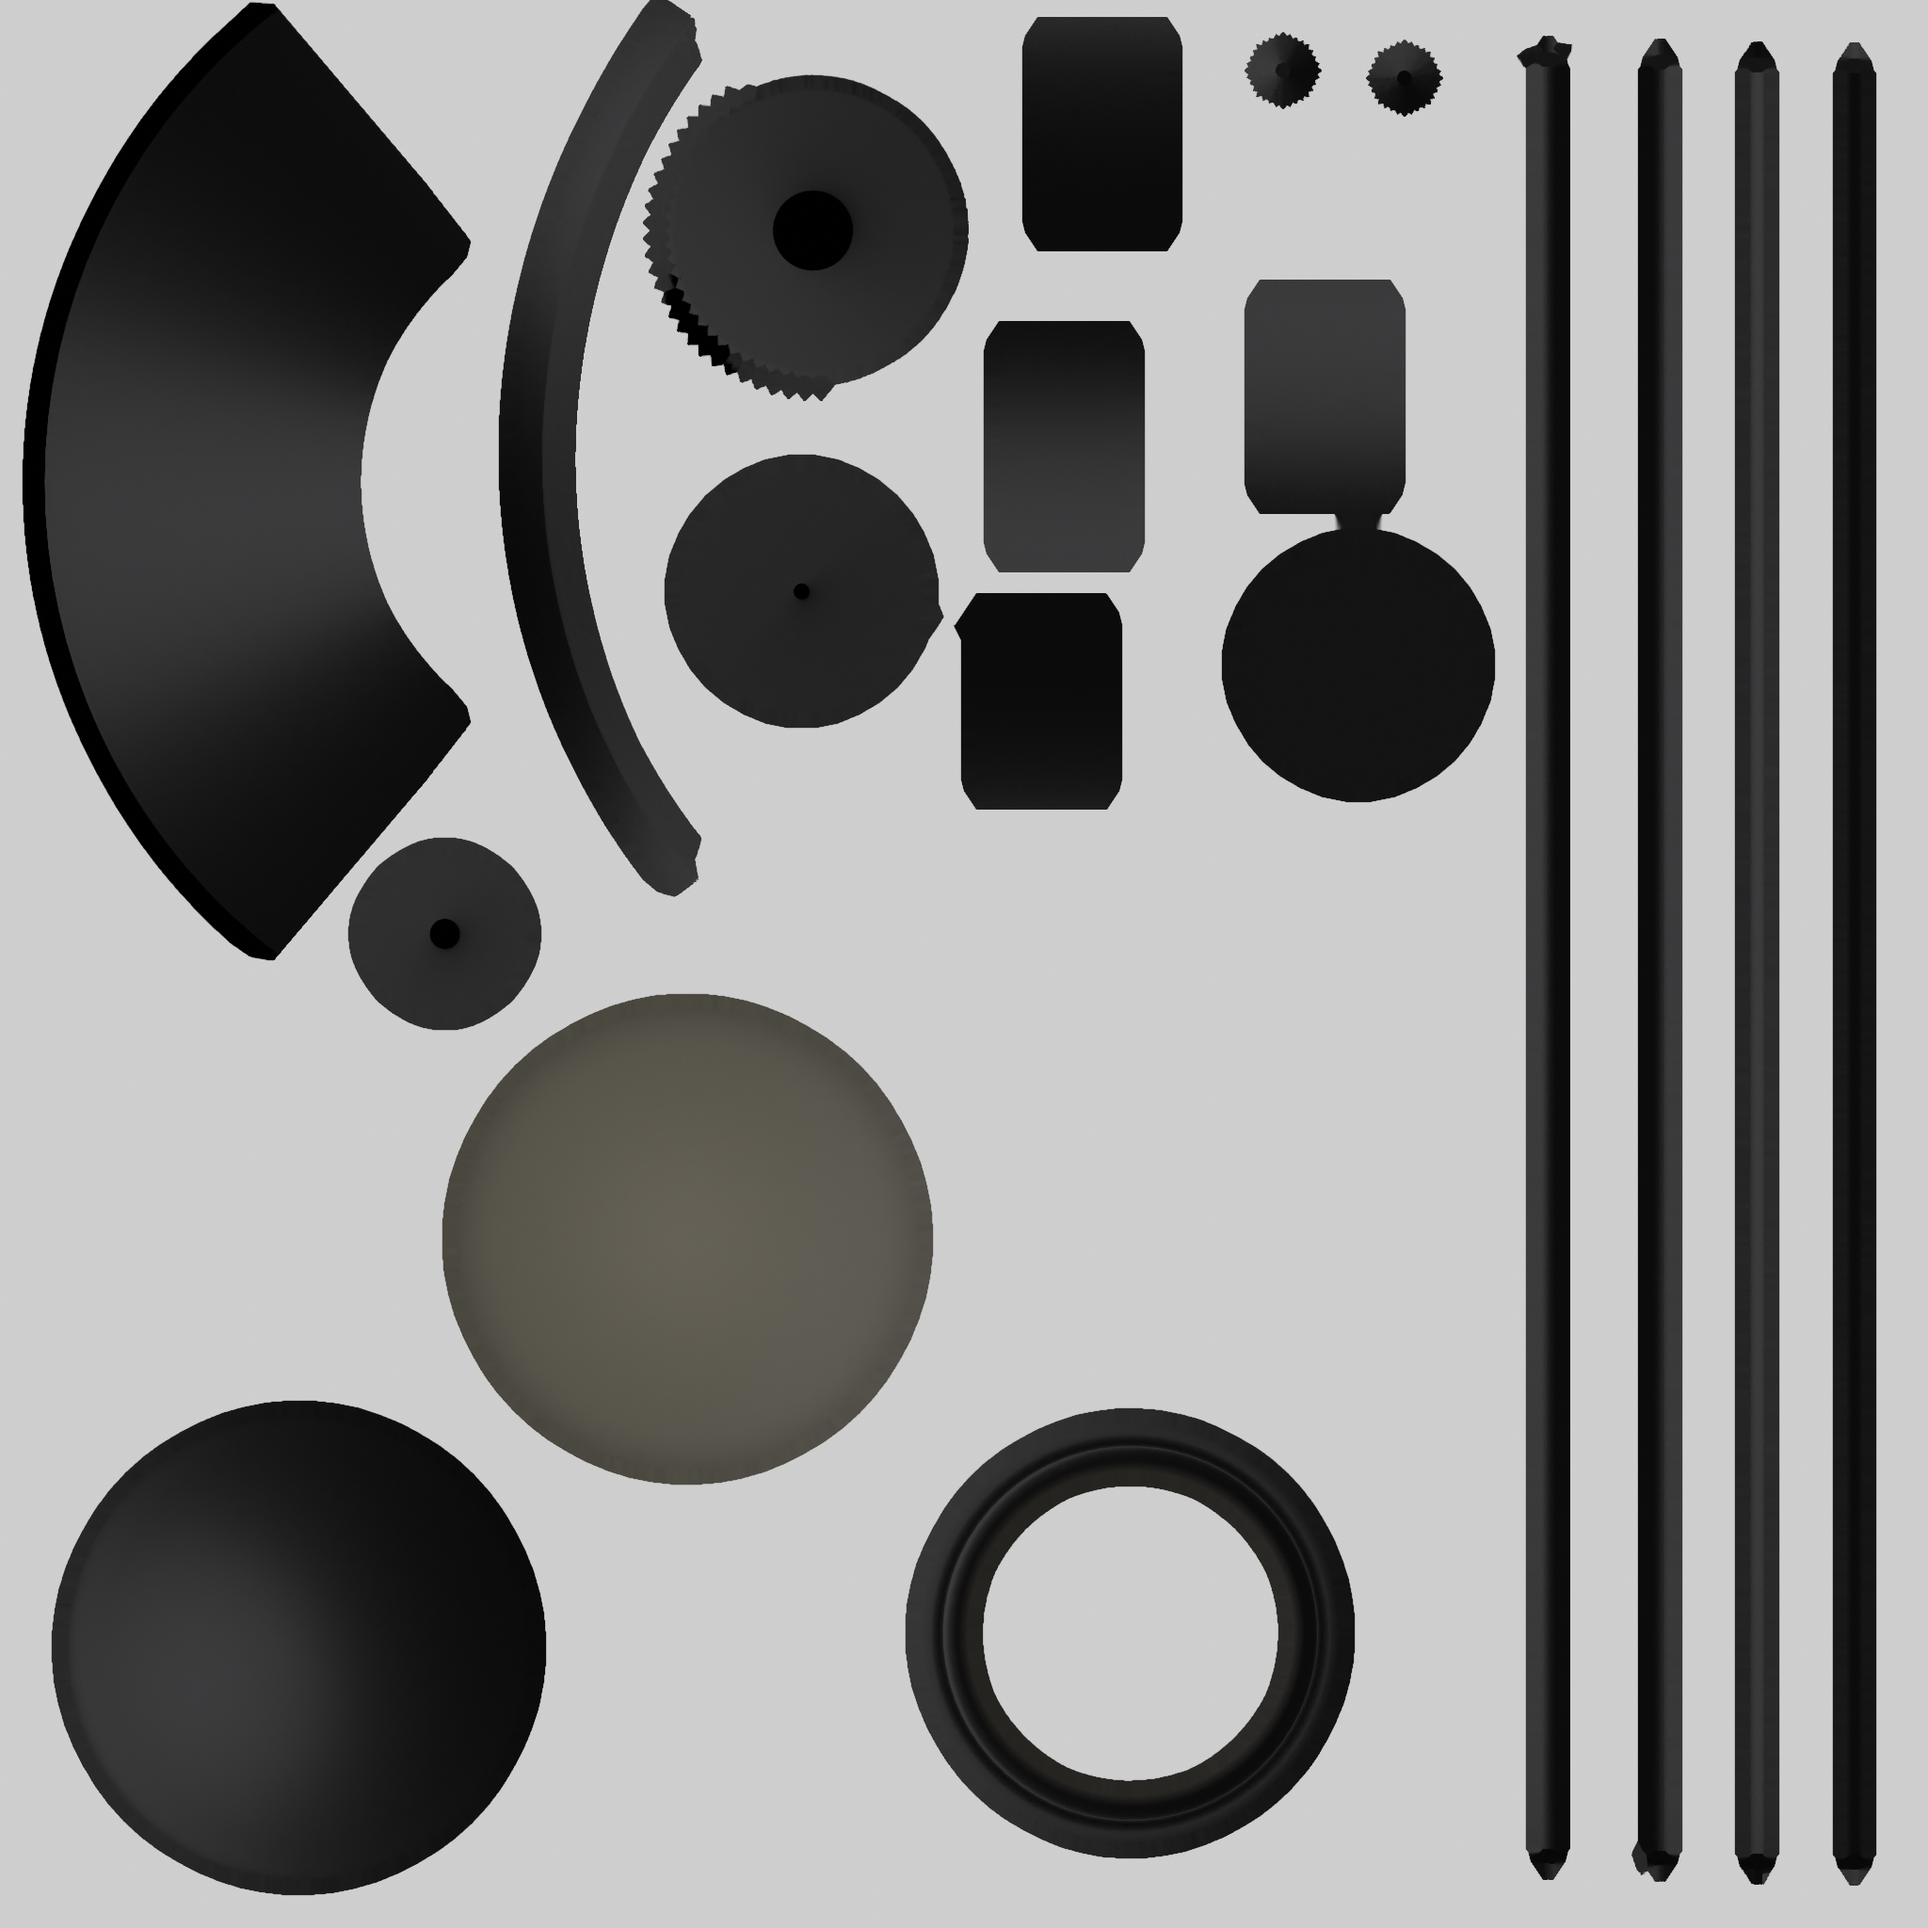
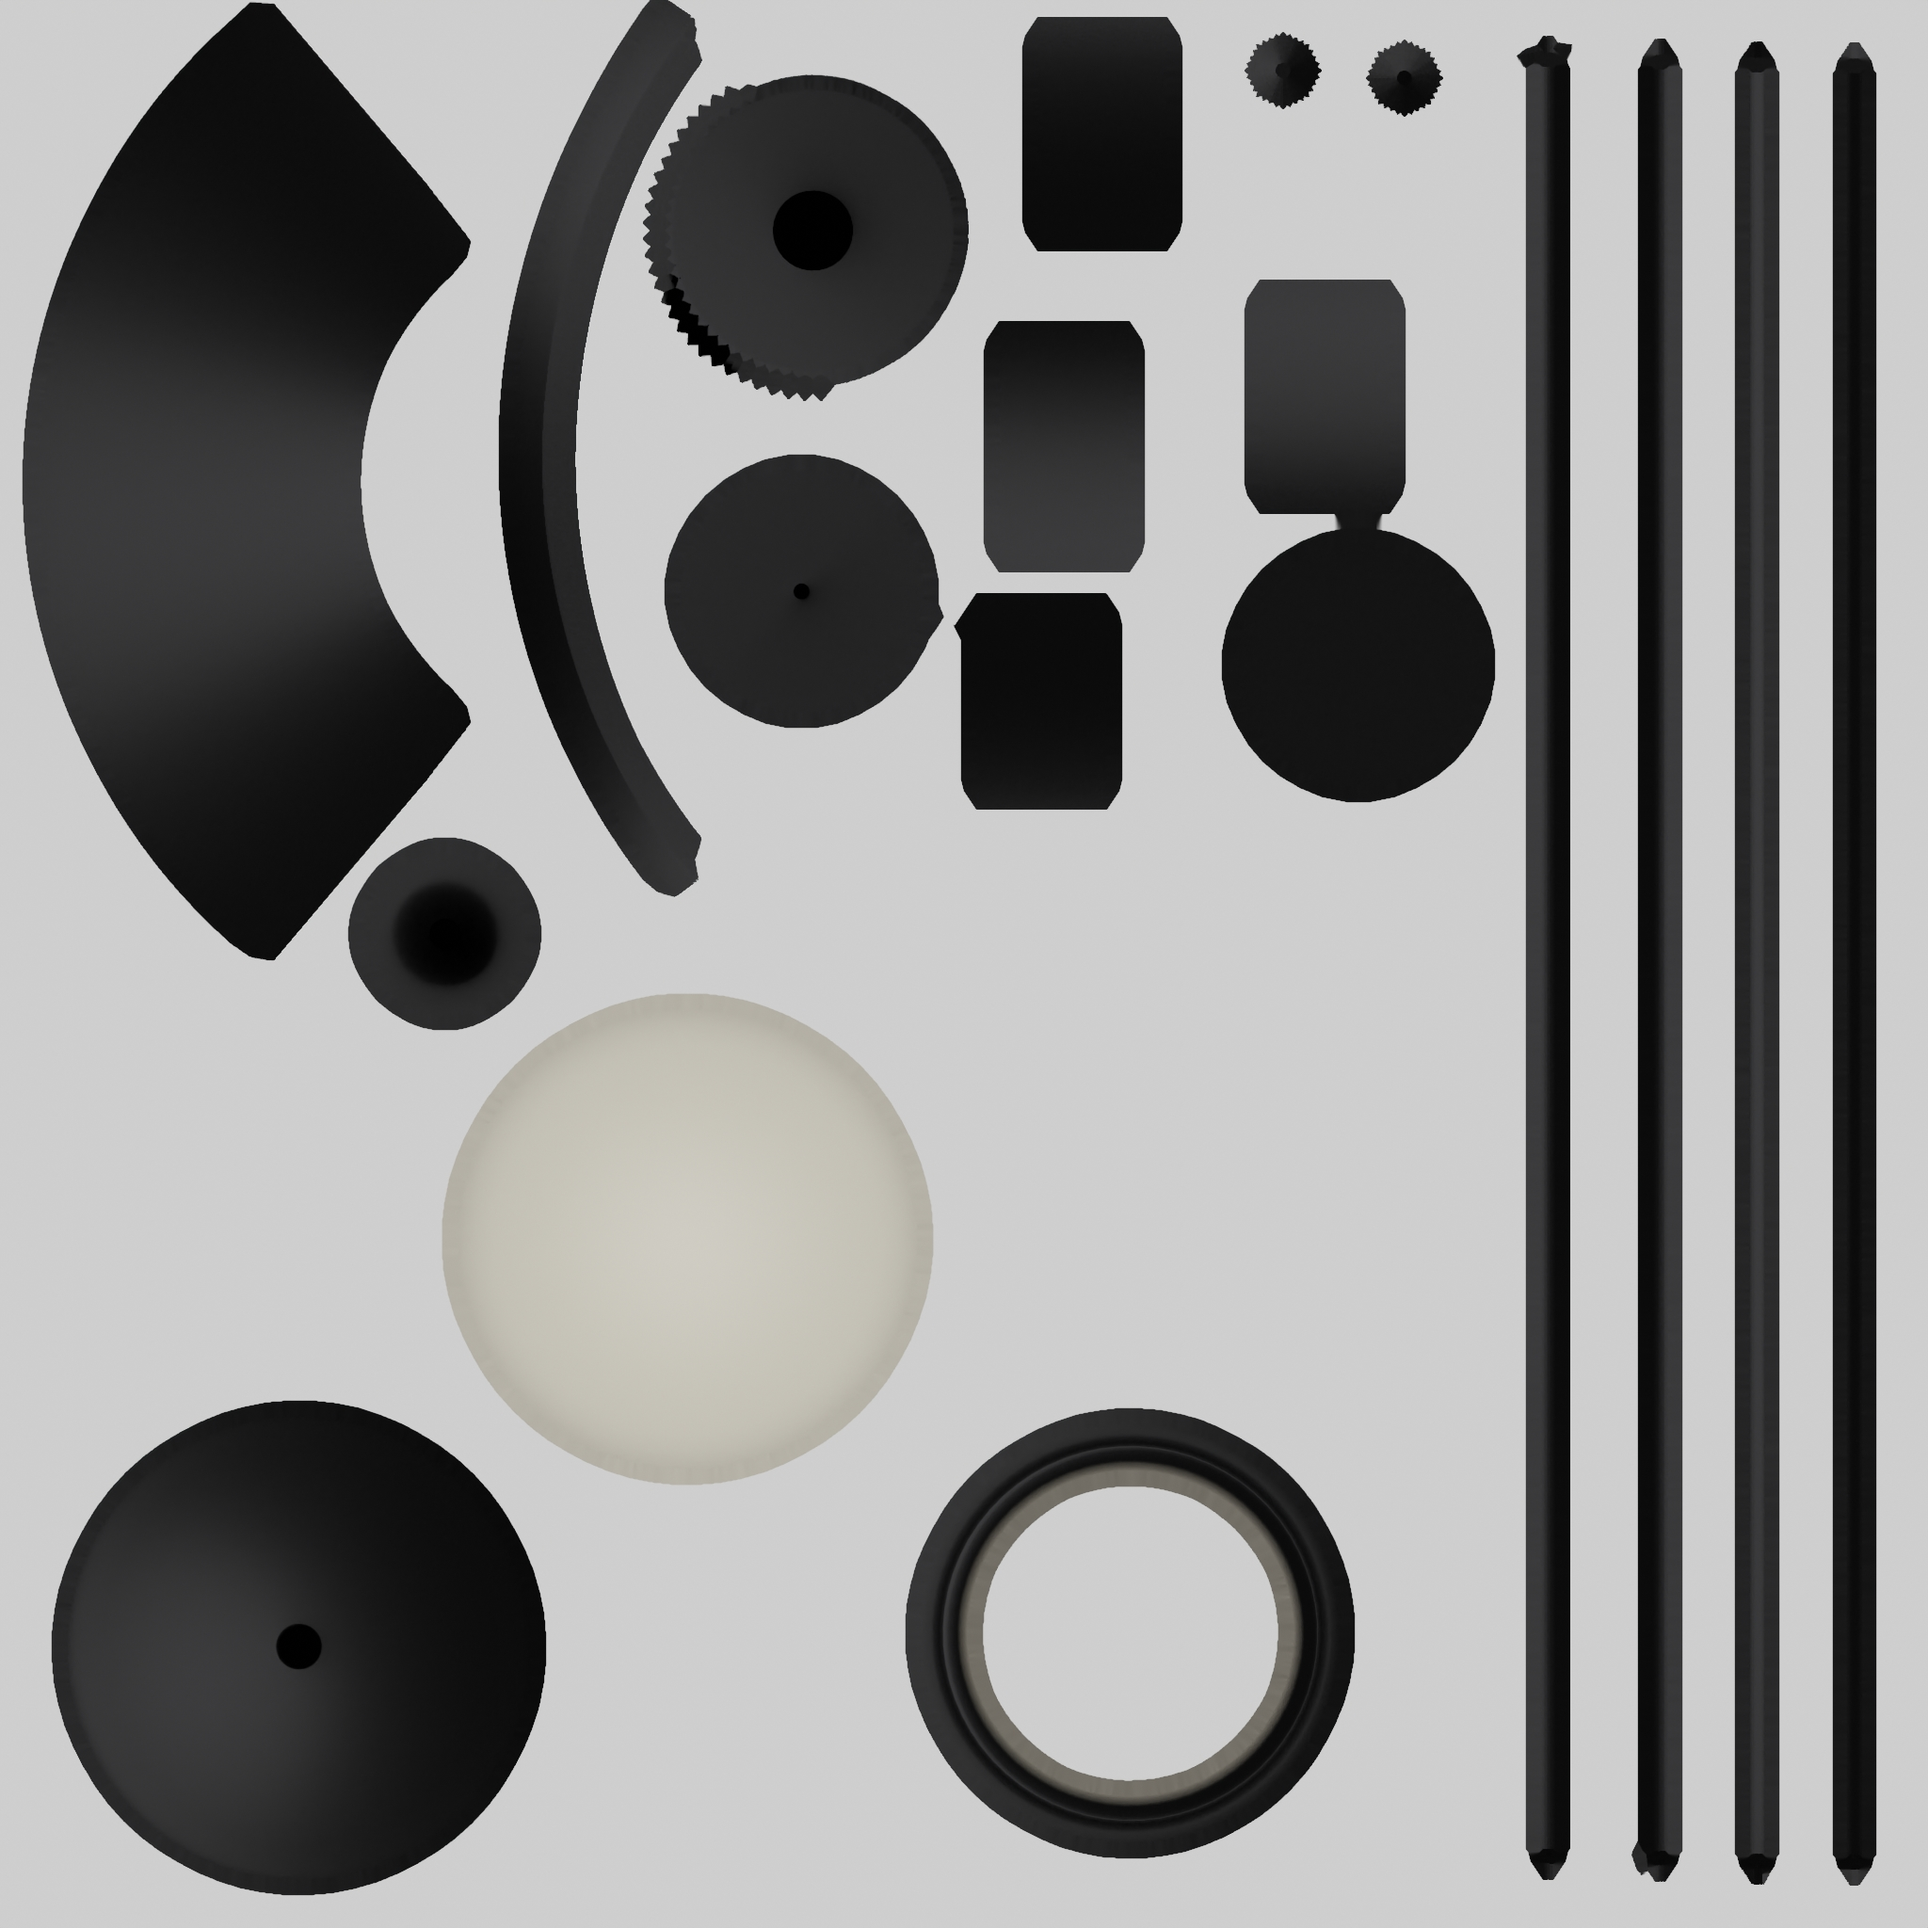
Add doors

diff --git a/webapp/src/components/Configurator/LightStep4.jsx b/webapp/src/components/Configurator/LightStep4.jsx
@@ -1,0 +1,70 @@
+import React, { useContext } from "react";
+import styled from "styled-components";
+import { Color } from "three";
+import { LightContext } from "../../context/LightContextProvider";
+import { ConfigTitle } from "./ConfigTitle";
+
+export const LightStep4 = () => {
+  const lightContext = useContext(LightContext);
+
+  const handleClick = (ev) => {
+    const color = ev.target.value;
+    const colorTexture = ev.target.dataset.texture;
+    const tempColor = new Color(color);
+
+    lightContext.lightRef.current.color = tempColor;
+    lightContext.setColorTemp(colorTexture);
+    // lightContext.setCurrentTexture(lightContext.lampTextures[colorTexture]);
+  };
+
+  const handleModelColor = (ev) => {
+    const color = ev.target.dataset.modelcolor;
+    lightContext.setModelColor(color);
+  };
+
+  return (
+    <>
+      {/* <ConfigTitle title={"Model Color"} />
+      <ColorContainer>
+        <ColorButton value="#000" data-modelcolor="black" onClick={handleModelColor}>
+          Black
+        </ColorButton>
+        <ColorButton value="#fff" data-modelcolor="white" onClick={handleModelColor}>
+          White
+        </ColorButton>
+      </ColorContainer>
+      <Spacer /> */}
+      <ConfigTitle title={"Light Temperature"} />
+      <ColorContainer>
+        <ColorButton value="#ffd6aa" data-texture="blackTexture2700k" onClick={handleClick}>
+          2700k
+        </ColorButton>
+        <ColorButton value="#fff1e0" data-texture="whiteTexture3000k" onClick={handleClick}>
+          3000k
+        </ColorButton>
+        <ColorButton value="#ffffff" data-texture="blackTexture4000k" onClick={handleClick}>
+          4000k
+        </ColorButton>
+      </ColorContainer>
+    </>
+  );
+};
+
+const Spacer = styled.span`
+  margin-top: 5rem;
+  display: block;
+`;
+
+const ColorContainer = styled.div`
+  display: flex;
+  gap: 1rem;
+  margin-top: 2rem;
+`;
+
+const ColorButton = styled.button`
+  height: 10rem;
+  width: 10rem;
+  text-align: center;
+  background-color: ${(props) => props.value};
+  box-shadow: 0px 0px 3px rgba(0, 0, 0, 0.1);
+`;

diff --git a/webapp/src/components/Configurator/LightStep3.jsx b/webapp/src/components/Configurator/LightStep3.jsx
@@ -8,42 +8,19 @@ export const LightStep3 = () => {
   const lightContext = useContext(LightContext);
 
   const handleClick = (ev) => {
-    const color = ev.target.value;
     const colorTexture = ev.target.dataset.texture;
-    const tempColor = new Color(color);
-
-    lightContext.lightRef.current.color = tempColor;
-    lightContext.setColorTemp(colorTexture);
     lightContext.setCurrentTexture(lightContext.lampTextures[colorTexture]);
-  };
-
-  const handleModelColor = (ev) => {
-    const color = ev.target.dataset.modelcolor;
-    lightContext.setModelColor(color);
   };
 
   return (
     <>
-      {/* <ConfigTitle title={"Model Color"} />
+      <ConfigTitle title={"Color Model"} />
       <ColorContainer>
-        <ColorButton value="#000" data-modelcolor="black" onClick={handleModelColor}>
+        <ColorButton value="#28282B" data-texture="blackMaterial" onClick={handleClick}>
           Black
         </ColorButton>
-        <ColorButton value="#fff" data-modelcolor="white" onClick={handleModelColor}>
+        <ColorButton value="#ffffff" data-texture="whiteMaterial" onClick={handleClick}>
           White
-        </ColorButton>
-      </ColorContainer>
-      <Spacer /> */}
-      <ConfigTitle title={"Light Temperature"} />
-      <ColorContainer>
-        <ColorButton value="#ffd6aa" data-texture="blackTexture2700k" onClick={handleClick}>
-          2700k
-        </ColorButton>
-        <ColorButton value="#fff1e0" data-texture="whiteTexture3000k" onClick={handleClick}>
-          3000k
-        </ColorButton>
-        <ColorButton value="#ffffff" data-texture="blackTexture4000k" onClick={handleClick}>
-          4000k
         </ColorButton>
       </ColorContainer>
     </>
@@ -67,4 +44,5 @@ const ColorButton = styled.button`
   text-align: center;
   background-color: ${(props) => props.value};
   box-shadow: 0px 0px 3px rgba(0, 0, 0, 0.1);
+  color: gray;
 `;

diff --git a/webapp/src/components/Models/Door.jsx b/webapp/src/components/Models/Door.jsx
@@ -1,32 +1,29 @@
 import React, { useRef } from "react";
 import { useGLTF } from "@react-three/drei";
-import windowObj from "../../assets/models/window.glb";
+import door from "../../assets/models/door.glb";
 import * as THREE from "three";
 
-export function Window({ scale, tranform }) {
-  const { nodes, materials } = useGLTF(windowObj);
+export function Door({ scale, tranform }) {
+  const { nodes, materials } = useGLTF(door);
 
   const matrix = new THREE.Matrix4();
   let transformData = [...tranform];
-  transformData[13] = 0;
+  // transformData[13] = 0;
   matrix.set(...transformData);
 
   let translation = new THREE.Vector3();
   let rotation = new THREE.Quaternion();
   let scaleMatrix = new THREE.Vector3();
   matrix.transpose().decompose(translation, rotation, scaleMatrix);
+  console.log(translation);
 
   const material = new THREE.MeshStandardMaterial({ envMapIntensity: 0.1 });
 
   return (
-    // <group scale={scale} quaternion={rotation} position={translation} dispose={null}>
-    //   <mesh geometry={nodes.Plane.geometry} material={material} rotation={[-Math.PI / 2, 0, 0]} />
-    //   <mesh geometry={nodes.Plane001.geometry} material={material} rotation={[-Math.PI / 2, 0, 0]} />
-    // </group>
-    <group scale={scale} quaternion={rotation} position={translation} dispose={null}>
+    <group dispose={null} scale={scale} quaternion={rotation} position={translation}>
       <mesh
         receiveShadow
-        geometry={nodes.test.geometry}
+        geometry={nodes.Cube002.geometry}
         material={material}
         position={[0, 0, 0]}
         rotation={[0, -Math.PI / 2, 0]}
@@ -35,4 +32,4 @@ export function Window({ scale, tranform }) {
   );
 }
 
-useGLTF.preload(windowObj);
+useGLTF.preload(door);

diff --git a/webapp/src/components/Configurator/Configurator.jsx b/webapp/src/components/Configurator/Configurator.jsx
@@ -7,6 +7,7 @@ import { CameraTarget } from "./CameraTarget";
 import { GenerateRoom } from "./GenerateRoom";
 import { LightStep1 } from "./LightStep1";
 import { LightStep3 } from "./LightStep3";
+import { LightStep4 } from "./LightStep4";
 import Progress from "./Progress";
 
 export const Configurator = () => {
@@ -21,6 +22,8 @@ export const Configurator = () => {
           return <LightStep1 />;
         case 3:
           return <LightStep3 />;
+        case 4:
+          return <LightStep4 />;
         default:
           return <GenerateRoom />;
       }
@@ -43,7 +46,7 @@ export const Configurator = () => {
           Back
         </BackButton>
       )}
-      {lightContext && lightContext.step < 3 && (
+      {lightContext && lightContext.step < 4 && (
         <NextButton
           step={lightContext.step}
           onClick={() => {

diff --git a/webapp/src/components/Canvas/Scene.jsx b/webapp/src/components/Canvas/Scene.jsx
@@ -9,6 +9,7 @@ import { Floor } from "./Floor";
 import { Camera } from "./Camera";
 import { Window } from "../Models/Window";
 import { GroupWindows } from "../Room/GroupWindows";
+import { GroupDoors } from "../Room/GroupDoors";
 
 softShadows();
 
@@ -24,6 +25,8 @@ export const Scene = () => {
         <GroupWalls />
         <Environment preset="studio" ref={lightContext.envRef} />
         <GroupWindows />
+        <GroupDoors />
+
         {lightContext.rotation && <Floor />}
         {lightContext.model && (
           <>

diff --git a/webapp/src/components/Room/GroupDoors.jsx b/webapp/src/components/Room/GroupDoors.jsx
@@ -1,0 +1,17 @@
+import React from "react";
+import { useContext } from "react";
+import { DataContext } from "../../context/DataContextProvider";
+import { Door } from "../Models/Door";
+
+export const GroupDoors = () => {
+  const context = useContext(DataContext);
+
+  return (
+    <>
+      {context?.roomData &&
+        context.roomData.doors?.map((door, key) => (
+          <Door key={key} scale={[door.dimensions[0], door.dimensions[1], 1]} tranform={door.transform} />
+        ))}
+    </>
+  );
+};

diff --git a/webapp/src/components/Configurator/Progress.jsx b/webapp/src/components/Configurator/Progress.jsx
@@ -21,6 +21,10 @@ export default function Progress() {
         <Step step={lightcontext.step >= 3 ? 0 : 1} stepLabel="Color">
           3
         </Step>
+        <ProgressLine step={lightcontext.step > 3 ? 0 : 1} />
+        <Step step={lightcontext.step >= 4 ? 0 : 1} stepLabel="Light">
+          4
+        </Step>
       </ProgressContainer>
     </FlexContainer>
   );
